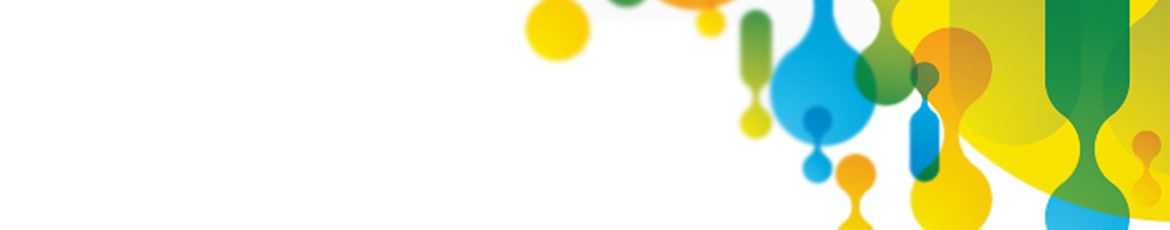
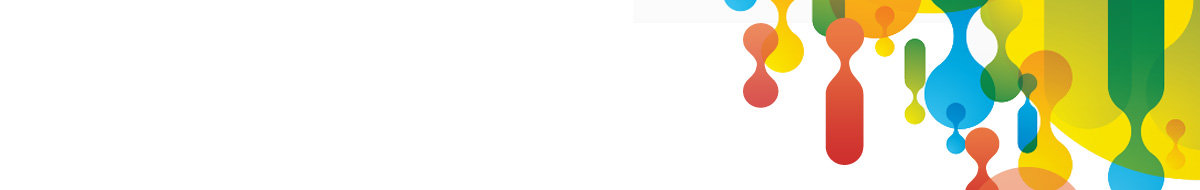
#31 troca a imagem do header por um com algumas gotas em bermelho

Changed region(s): [[0.4308, 0.0, 1.0, 1.0]]

diff --git a/wp-content/themes/pongstrap/plataforma.css b/wp-content/themes/pongstrap/plataforma.css
@@ -22,7 +22,7 @@ body {
 
 
 header {
-        background-image: url(img/bg_header-724.jpg);
+        background-image: url(img/bg_header.jpg);
         background-repeat: no-repeat;
         background-position: right top;
 }
